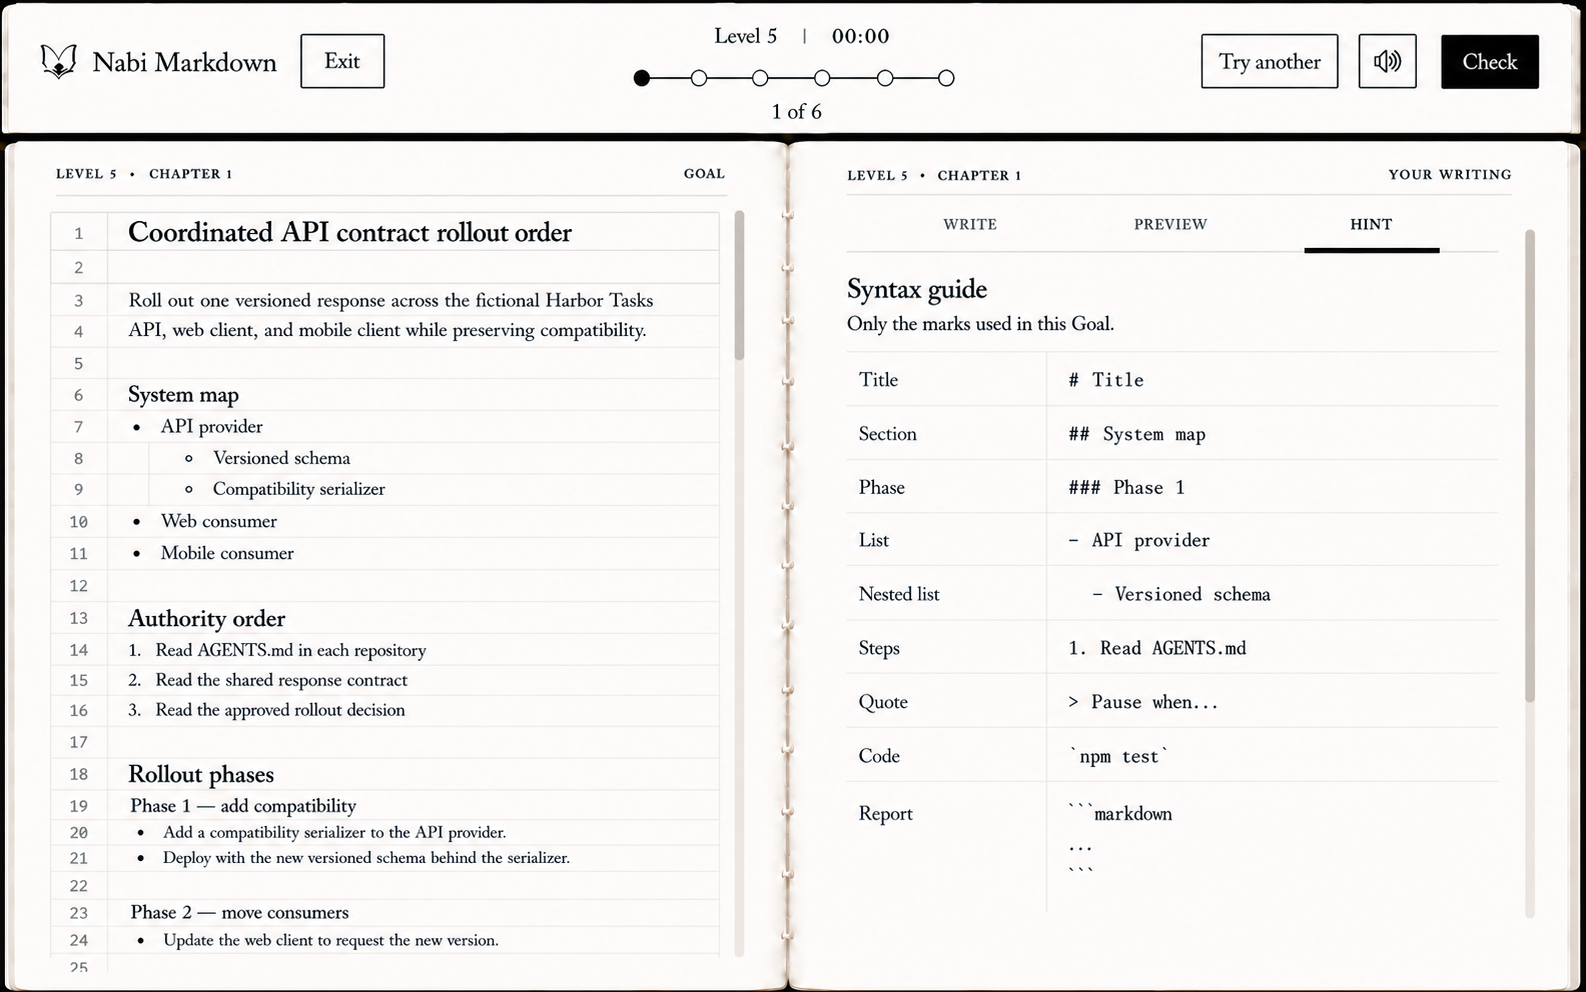
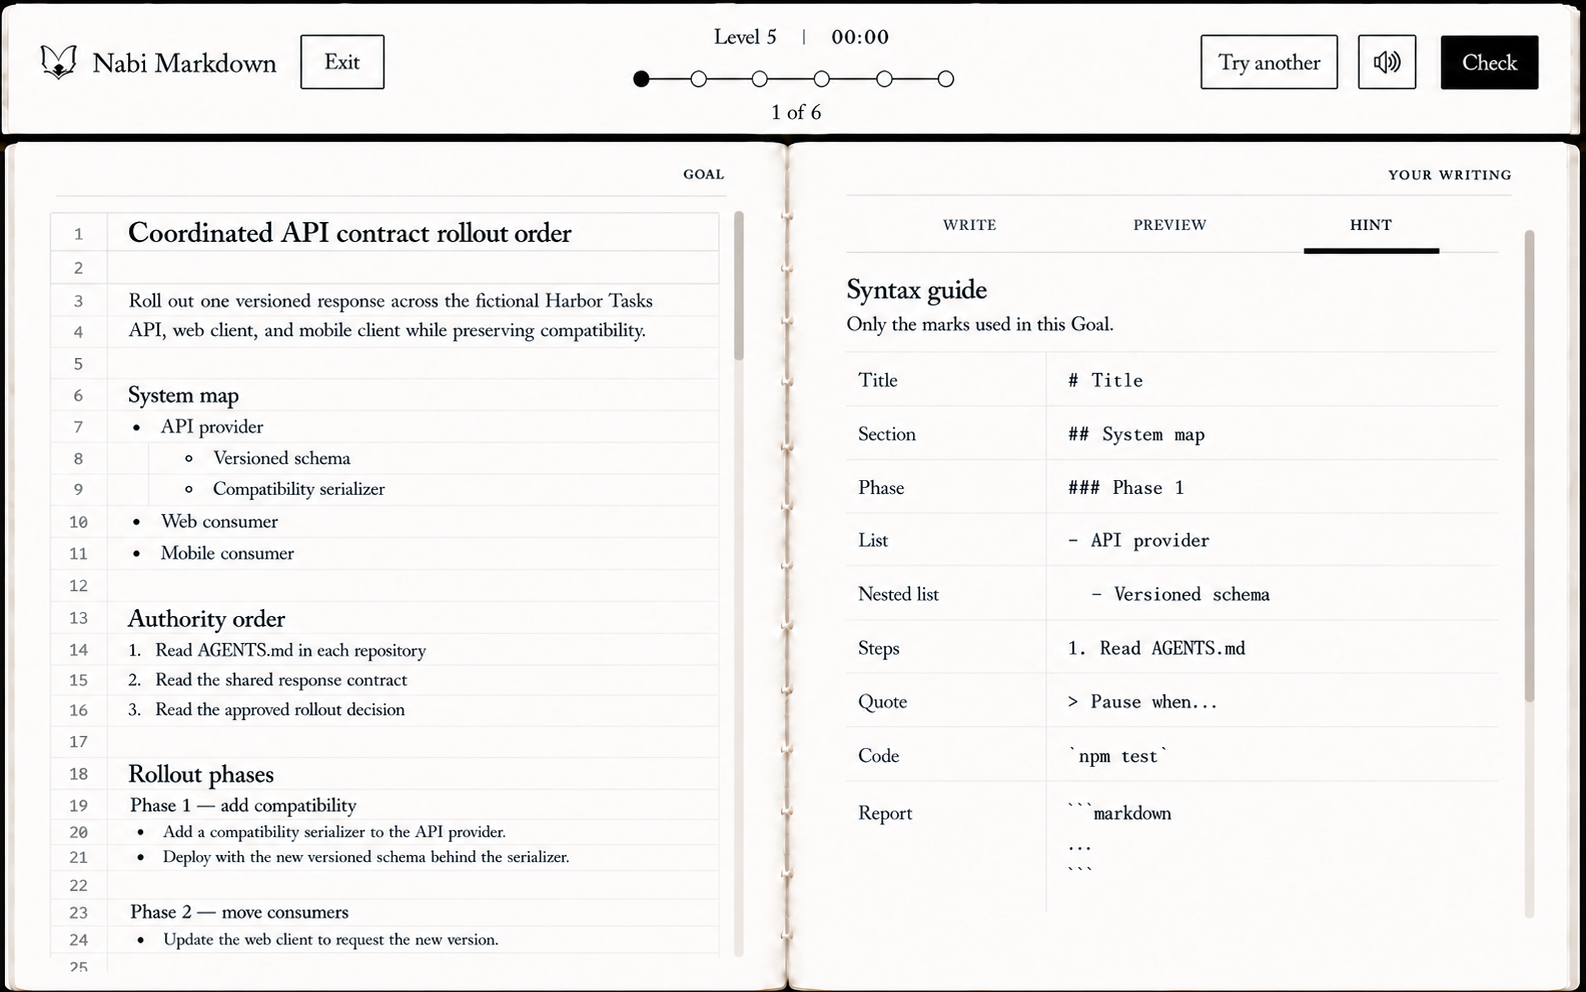
docs: remove duplicate Practice page labels

diff --git a/docs/superpowers/specs/2026-07-20-open-book-practice-design.md b/docs/superpowers/specs/2026-07-20-open-book-practice-design.md
@@ -35,7 +35,7 @@ This redesign changes presentation and the location of Hint. It does not change 
 - The workspace is one open-book surface with a warm ivory paper token, thin dark outer edge, restrained inner-page shadow, and stitched center seam.
 - The implementation reuses the landing page's Source Serif 4, book-paper palette, wordmark, and page-turn visual vocabulary.
 - There are no dashboard gaps, floating cards, rounded controls, gradients, decorative colors, or ornamental animation.
-- Desktop uses a strict 50:50 spread. Each side has a small uppercase running head: level and chapter at the outer edge, and `GOAL` or `YOUR WRITING` at the inner or opposite edge as shown in the visual truth.
+- Desktop uses a strict 50:50 spread. The page heads contain only `GOAL` and `YOUR WRITING`. Level and chapter labels do not repeat on either page because the fixed top strip already owns level and progress context.
 - The two pages use the same top alignment and baseline rhythm.
 
 ## Goal page